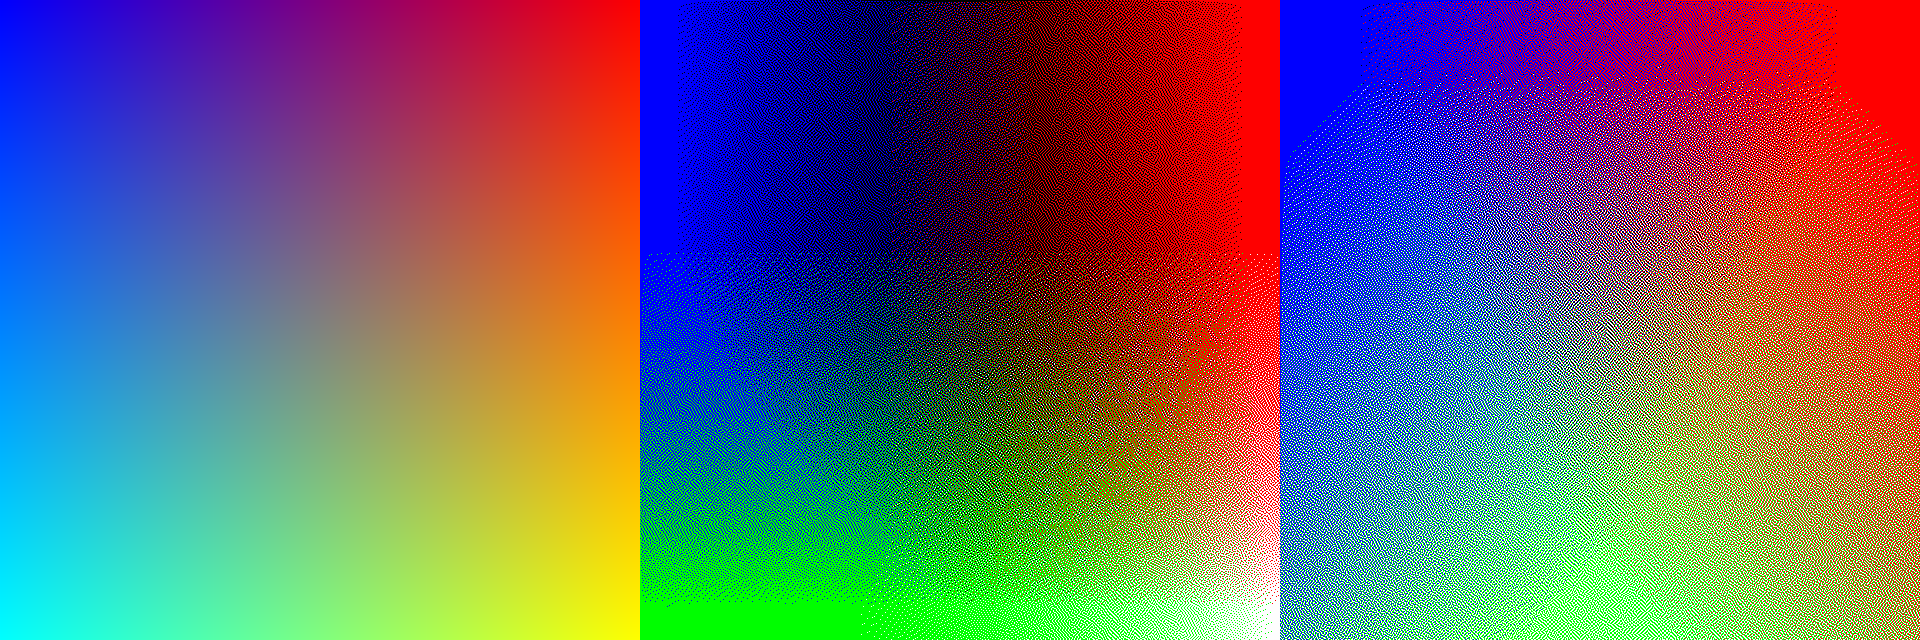
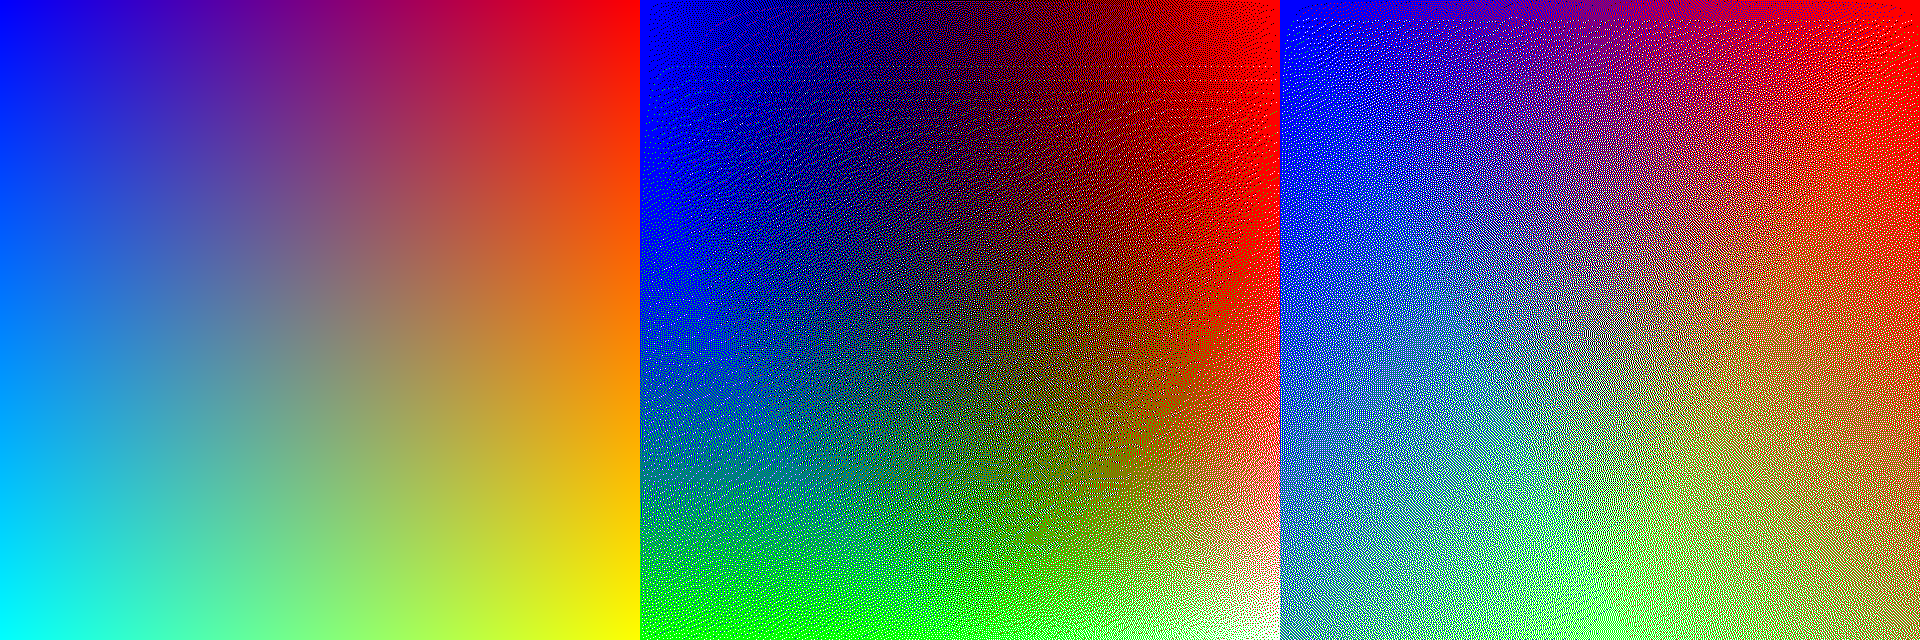
add floyd-steinberg dithering

diff --git a/demo.py b/demo.py
@@ -6,33 +6,42 @@ import numpy as np
 input_image = Image.open("hare-input.jpg").convert("RGB")
 # Test image using an RGB gradient
 input_gradient = Image.open("gradient-input.png").convert("RGB")
+# Test image using a BW gradient
+input_gradient_bw = Image.open("gradient-bw-input.png").convert("RGB")
 
-ditherer_linear = Dither()
-ditherer_sRGB = Dither(linearise=False, correct_perception=False)
+ditherer_linear = Dither(mode="FloydSteinberg", linearise=True, correct_perception=True)
+ditherer_sRGB = Dither(mode="FloydSteinberg", linearise=False, correct_perception=False)
 
 # RGB palette
-palette = np.array([[0, 0, 0], [255, 255, 255], [255, 0, 0], [0, 255, 0], [0, 0, 255]])
+palette_rgb = np.array([[0, 0, 0], [255, 255, 255], [255, 0, 0], [0, 255, 0], [0, 0, 255]])
+palette_bw = np.array([[0, 0, 0], [255, 255, 255]])
 
 # Dither all images
-for name, img in [("hare", input_image), ("gradient", input_gradient)]:
+for name, img, palette in [
+	("hare", input_image, palette_rgb), 
+	("gradient", input_gradient, palette_rgb), 
+	("gradient-bw", input_gradient_bw, palette_bw)
+]:
 	print(f"Dithering {name} :")
 
 	# Linearise and dither
 	print(f"Dithering in linear colour-space...")
-	dithered_linear = Dither().dither(img, palette)
+	dithered_linear = ditherer_linear.dither(img, palette)
 
 	# Dither directly in sRGB
 	print(f"Dithering in sRGB colour-space...")
-	dithered_sRGB = Dither(
-		linearise=False,
-		correct_perception=False
-	).dither(img, palette)
+	dithered_sRGB = ditherer_sRGB.dither(img, palette)
+
+	if dithered_sRGB.shape[0] >= dithered_sRGB.shape[1]:
+		concat_axis = 1
+	else:
+		concat_axis = 0
 
 	# Write images to file
 	output = Image.fromarray(np.concatenate([
 			img,
 			dithered_linear,
 			dithered_sRGB
-	], axis=1))
+	], axis=concat_axis))
 	output.save(f"{name}.png")
 	print(f"Saved {name}.png to file.\n")

diff --git a/ditherpy/dither.py b/ditherpy/dither.py
@@ -4,9 +4,12 @@ from tqdm import tqdm
 class Dither:
 	def __init__(
 			self,
+			mode="FloydSteinberg",
 			linearise=True,
-			correct_perception=True
+			correct_perception=True,
 		):
+		self.mode = mode # "FloydSteinberg" or "Atkinson"
+
 		self.linearise = linearise # Linearise the image's colours before
 
 		self.correct_perception = correct_perception # Correct for perception when comparing colors
@@ -45,19 +48,30 @@ class Dither:
 				# Set pixel to closest color
 				image[y, x] = palette[index]
 
-				# Atkinson Dithering
-				if x + 1 < x_max:
-					image[y, x+1] += error / 8
-				if x + 2 < x_max:
-					image[y, x+2] += error / 8
-				if y + 1 < y_max:
-					if x - 1 >= 0:
-						image[y+1, x-1] += error / 8
-					image[y+1, x] += error / 8
+				if self.mode == "FloydSteinberg":
+					# Floyd-Steinberg Dithering
 					if x + 1 < x_max:
-						image[y+1, x+1] += error / 8
-				if y + 2 < y_max:
-					image[y+2, x] += error / 8
+						image[y, x+1] += error * 7 / 16
+					if y + 1 < y_max:
+						if x - 1 >= 0:
+							image[y+1, x-1] += error * 3 / 16
+						image[y+1, x] += error * 5 / 16
+						if x + 1 < x_max:
+							image[y+1, x+1] += error * 1 / 16
+				elif self.mode == "Atkinson":
+					# Atkinson Dithering
+					if x + 1 < x_max:
+						image[y, x+1] += error / 8
+					if x + 2 < x_max:
+						image[y, x+2] += error / 8
+					if y + 1 < y_max:
+						if x - 1 >= 0:
+							image[y+1, x-1] += error / 8
+						image[y+1, x] += error / 8
+						if x + 1 < x_max:
+							image[y+1, x+1] += error / 8
+					if y + 2 < y_max:
+						image[y+2, x] += error / 8
 
 		return image
 	
